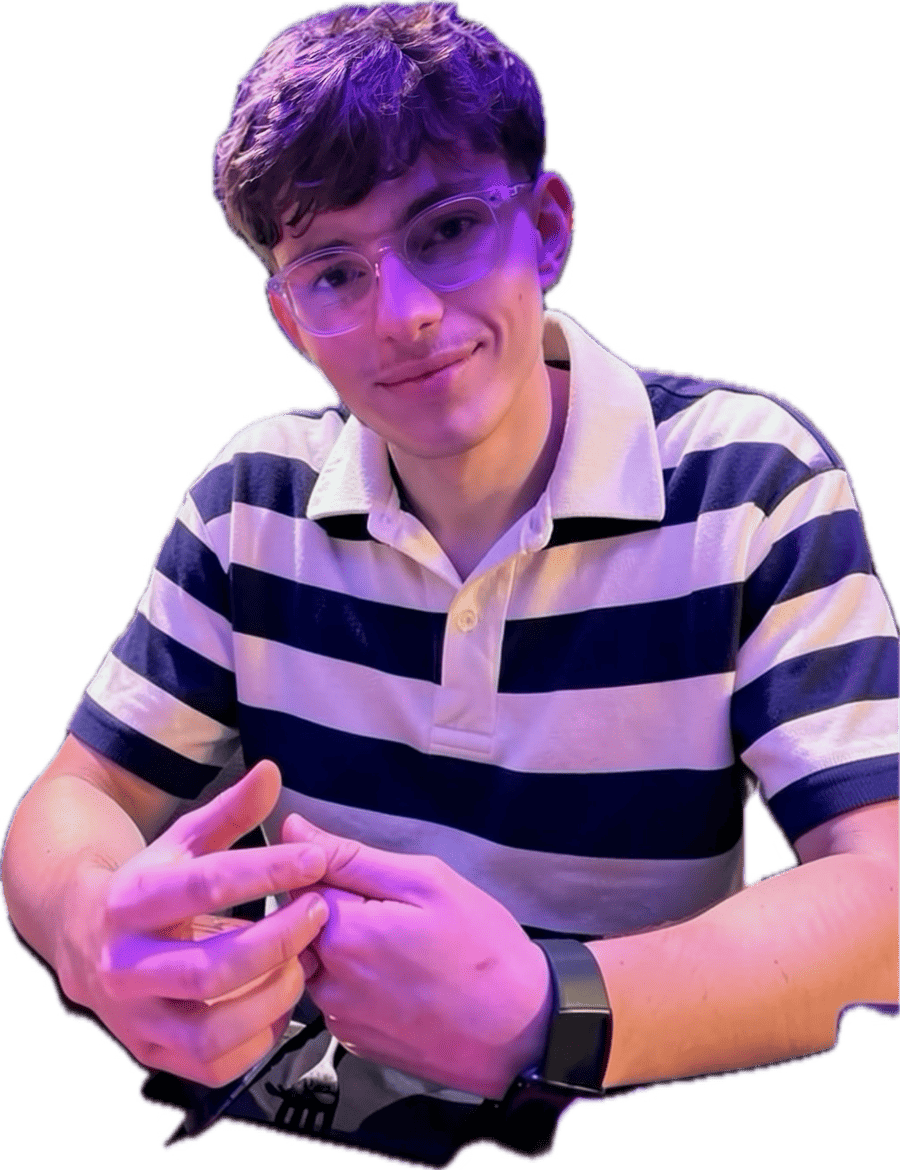
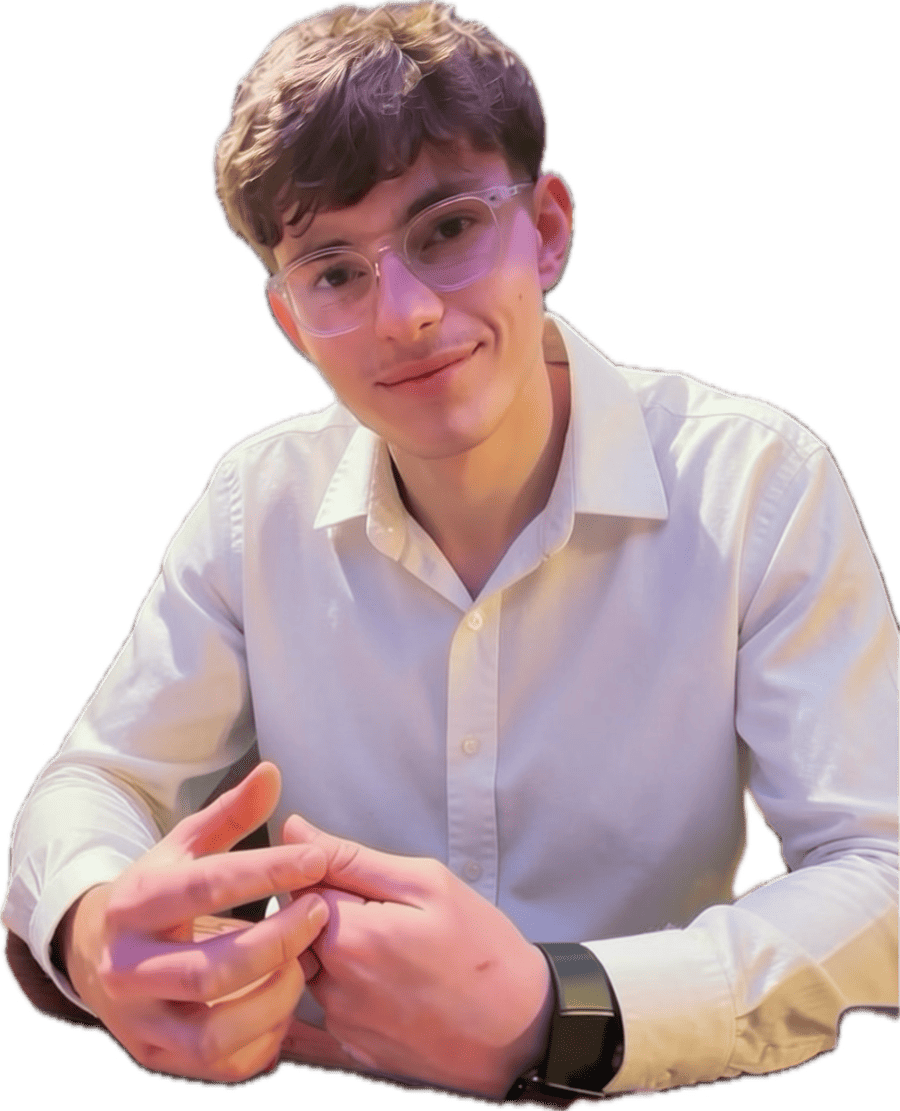
Nouvelle photo principale (chemise blanche)

diff --git a/index.html b/index.html
@@ -92,7 +92,7 @@
 
       <div class="hero-photo reveal" style="--delay:120ms">
         <figure>
-          <img src="images/julien.png" alt="Portrait de Julien Pires" width="900" height="1170">
+          <img src="images/julien.png" alt="Portrait de Julien Pires" width="900" height="1111">
           <figcaption><span class="mono">Julien Pires — Amiens</span></figcaption>
         </figure>
       </div>
